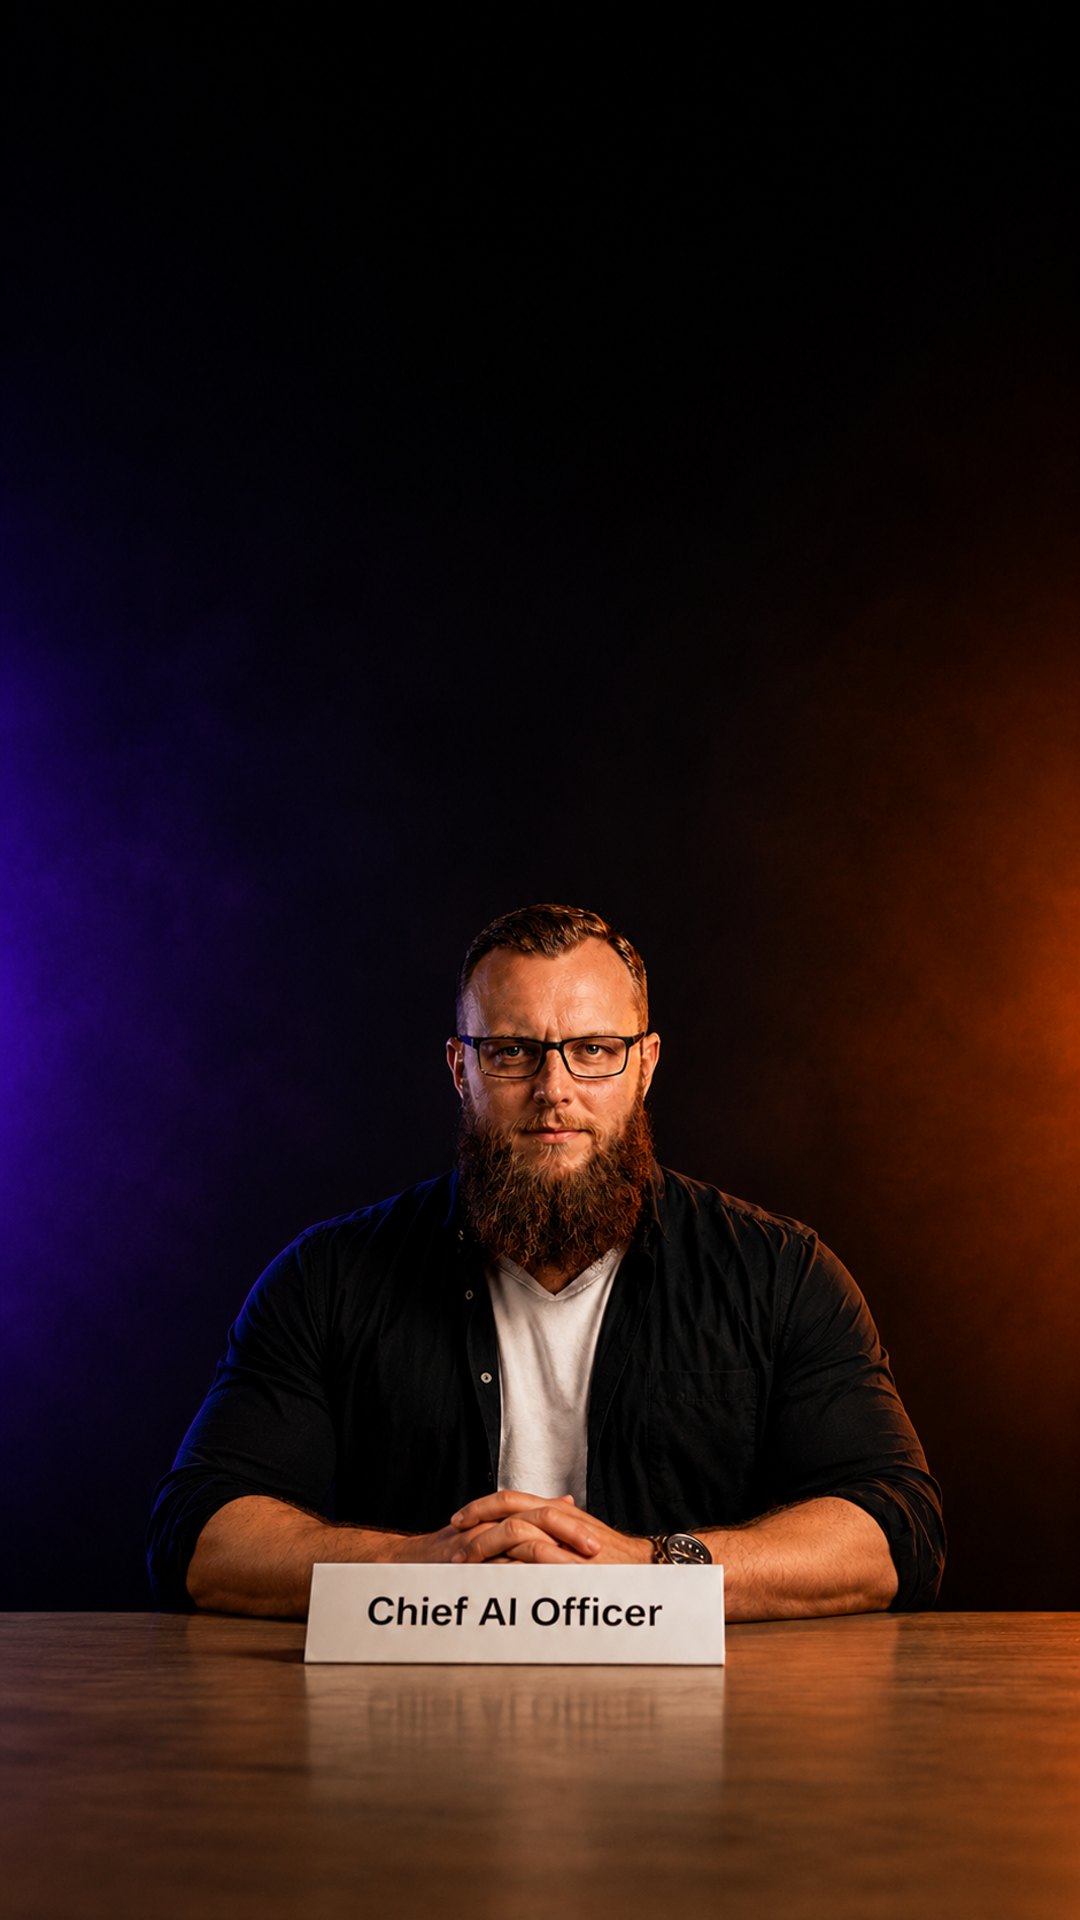
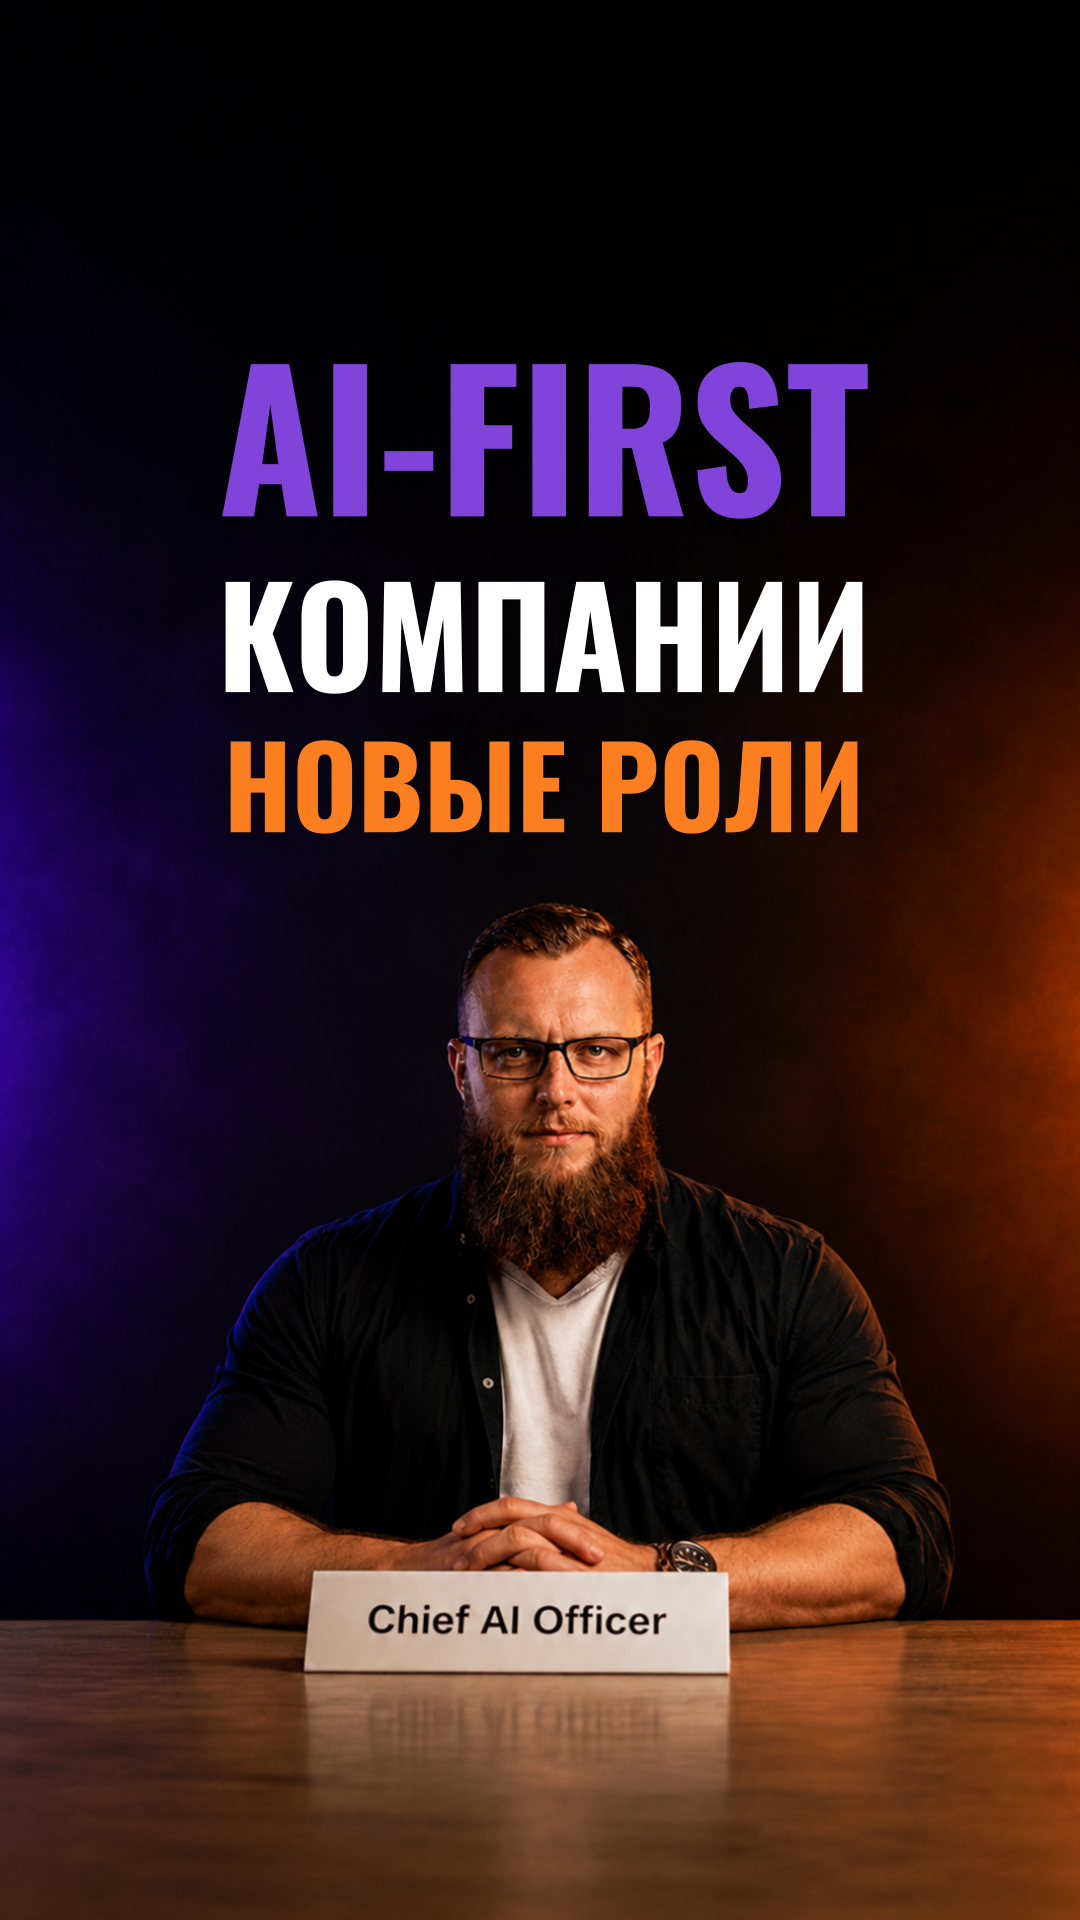
Девятый ролик: новая обложка и один рез вместо двух
Обложка — assets/lecture_1_9.png («AI-FIRST КОМПАНИИ / НОВЫЕ РОЛИ»)
вместо портрета. Место подписи «Часть N» выбрано по замеру яркости самой
обложки: верх до y500 пустой, тайтл начинается с 540, лицо с 900 —
подпись стоит центром на 330 и ни на что не наезжает.

Рез один, 41.6: владелец «обрезка одна по 41 секунде, следовательно
только 2 видео». Части 41.6 и 60.2 c, обложек частей теперь две.

Claude-Session: https://claude.ai/code/session_01JYJ9oxRL64dVKjbnqzxJTN

diff --git a/tests/test_roles_overlay.py b/tests/test_roles_overlay.py
@@ -27,9 +27,10 @@ _WORDS = 222               # столько слов в озвучке
 _SCENES = 16
 _BLOCKS = 4                # столько сцен со «словом + сиянием + значками»:
                            # четыре новые роли — опорные блоки ролика
-_РЕЗЫ = (41.6, 82.7)          # владелец просил «по 41 секунде», но ровно
-                              # 41 и 82 приходятся внутрь слов — сдвинуто
-                              # в ближайшие паузы
+_РЕЗЫ = (41.6,)               # «обрезка одна по 41 секунде, следовательно
+                              # только 2 видео». Ровно 41 попадает внутрь
+                              # слова «данных» (40.81…41.27), поэтому рез
+                              # сдвинут в паузу за ним
 _KEGL = 50                 # кегль субтитров на кадре 1080×1920
 _BAND = 940                # полоса под строку: #sub left:70px right:70px
 _ПОЛОСА_ЧИПОВ = 900        # шире ряд подсказок в кадр не помещается

diff --git a/automation/1/overlay-roles/README.md b/automation/1/overlay-roles/README.md
@@ -40,7 +40,6 @@
 | 63.1–66.3 | 42 | «ИИ берёт на себя» (63.25) → Анализ (64.11) · Решения (64.70) · Действия (65.25) |
 | 66.4–74.3 | 42 | «Человек — архитектор» (66.79) → Цели (70.63) · Правила (71.75) · Развитие (73.67) |
 | 74.9–82.5 | 43 | «В этой игре победят» (75.57) → **Пользуется ИИ** (77.17) **VS** **Операционное ядро** (80.17) |
-| **рез 82.7** | | конец второй части — тоже в паузе и на стыке |
 | 82.8–92.0 | 43 | «Будущее за компаниями» (83.73) → Уровень процессов (87.13) ↔ Поток данных (88.35) → «Внедрять интеллект в процессы» (90.19) |
 | 92.4–98.6 | 43 | «Этот курс — первый шаг» (93.09) → Мыслить как архитектор (94.95) ↔ Создавать решения (97.51) |
 | 98.7–101.8 | 43 | «Реально меняют» (98.89) → пара **Бизнес** (99.61) ↔ **Экономика** (101.17) |
@@ -58,10 +57,9 @@
 
 ## Что посчитано, а не прикинуто
 
-**Резы попадают в паузу.** Владелец просил «по 41 секунде», но ровно 41 и 82
-приходятся внутрь слов: 41 — на «данных» (реплика 40.81…41.27), 82 — на
-«бизнеса» (81.75…82.45). Сдвинуто в ближайшие паузы: **41.6** (пауза
-41.27…42.03) и **82.7** (пауза 82.45…82.99), обе — на стыке сцен.
+**Рез попадает в паузу.** Владелец просил «по 41 секунде», но ровно 41
+приходится внутрь слова «данных» (реплика 40.81…41.27). Рез сдвинут в
+ближайшую паузу — **41.6** (пауза 41.27…42.03), она же стык сцен.
 
 **Кегль подписи в широкой паре.** «Мыслить как архитектор» при кегле 28
 занимает 394px и подходит к левому краю на 49px при пороге 60 (замер в
@@ -77,18 +75,21 @@
 
 ```
 sh собрать.sh "ваше видео.MOV"
-sh нарезать.sh "ваше видео-готовый.mp4" 41.6 82.7   # три части
+sh нарезать.sh "ваше видео-готовый.mp4" 41.6   # две части
 ```
 
-Третья часть выходит короткой — 19 секунд: дорожка кончается на 101.8.
+Рез один — владелец: «обрезка одна по 41 секунде, следовательно только
+2 видео». Части выходят 41.6 и 60.2 секунды.
 
 **Второй раз собирать `…-готовый.mp4` нельзя**: субтитры в нём уже вжжены, и
 новый заход положил бы поверх них вторую строку. Скрипт видит такое имя и
 останавливается.
 
-**Обложки готовы:** `cover.png` — на весь ролик (портрет «Chief AI Officer»
-из `assets/`), `cover1.jpg`…`cover3.jpg` — по одной на часть, с подписью
-«Часть N» в свободном верхнем поле кадра. Скрипт нарезки видит
+**Обложки готовы:** `cover.png` — `assets/lecture_1_9.png` («AI-FIRST
+КОМПАНИИ / НОВЫЕ РОЛИ»), `cover1.jpg` и `cover2.jpg` — по одной на часть, с
+подписью «Часть N». Место подписи выбрано по замеру яркости самой обложки:
+верхняя полоса до y500 пустая, тайтл начинается с 540, лицо с 900 — подпись
+стоит центром на 330 и ни на что не наезжает. Скрипт нарезки видит
 пронумерованные обложки и вторую подпись поверх не рисует.
 
 ## Субтитры

diff --git a/SPEC-SITE.md b/SPEC-SITE.md
@@ -2587,10 +2587,10 @@ drawtext (conda) их бы не нарисовал.
   собраны рядом из двух кружков и съезжали на голову говорящего. Теперь
   `ряд()` переводит ряд из двух в пару САМ, а `tools/проверки/пары.py` ловит
   нарушение в разметке любого ролика.
-- **Резы сдвинуты в паузы.** Владелец просил «по 41 секунде», но ровно 41 и
-  82 приходятся внутрь слов («данных» 40.81…41.27, «бизнеса» 81.75…82.45).
-  Резы 41.6 и 82.7 — в паузах и на стыках сцен; третья часть выходит короткой
-  (19 c), о чём владелец предупреждён.
+- **Рез сдвинут в паузу.** Владелец: «обрезка одна по 41 секунде,
+  следовательно только 2 видео». Ровно 41 приходится внутрь слова «данных»
+  (реплика 40.81…41.27), поэтому рез — 41.6 (пауза 41.27…42.03) и он же стык
+  сцен. Части: 41.6 и 60.2 c.
 - **Кегли подписей в парах — по замеру:** пары из `пара()` берут 34 от
   `.scene .row.duo`, пары из `ряд(пара=True)` — 28 от ряда иконок. Длинным
   подписям кегль задан явно: `#s14` → 32 (34 давало поле 58 при пороге 60),
@@ -2605,15 +2605,17 @@ drawtext (conda) их бы не нарисовал.
   который не с кем слить (строка вышла бы длиннее четырёх слов), занимает
   недостающие миллисекунды у соседа, а последняя реплика подрезана по концу
   озвучки.
-- **Обложка** — портрет «Chief AI Officer» из `assets/`, обложки частей
-  `cover1.jpg`…`cover3.jpg` с подписью «Часть N» в свободном верхнем поле.
+- **Обложка** — `assets/lecture_1_9.png` («AI-FIRST КОМПАНИИ / НОВЫЕ РОЛИ»),
+  обложки частей `cover1.jpg` и `cover2.jpg` с подписью «Часть N». Место
+  подписи выбрано по замеру яркости самой обложки: верх до y500 пустой, тайтл
+  начинается с 540, лицо с 900 — подпись стоит центром на 330.
 
 **Тесты:** `tests/test_roles_overlay.py` (39 тестов). Ключевые:
 - `[FE]` test_elements_match_the_spoken_words — 49 элементов сверены с речью по словам.
 - `[FE]` test_two_icons_always_stand_wide / test_paired_scenes_stand_over_the_paintings — пары широкие, кегль берётся по сцене.
 - `[FE]` test_only_the_four_roles_are_big_words — крупным словом только четыре роли.
 - `[FE]` test_no_ring_left_from_the_previous_lecture — кольцо восьмого ролика не осталось.
-- `[FE]` test_cuts_fall_between_scenes — резы 41.6 и 82.7 на стыках.
+- `[FE]` test_cuts_fall_between_scenes — рез 41.6 на стыке сцен и в паузе.
 - `[FE]` test_recognition_mistakes_are_fixed — все правки распознавания, включая правку по куску разорванной фразы.
 - `[FE]` test_layers_are_here_and_long_enough — слои на месте и ровно 103.3 c.
 

diff --git a/automation/1/ГАЙДБУК.md b/automation/1/ГАЙДБУК.md
@@ -22,7 +22,7 @@
 | 6 | `overlay-index` | 22–30 | 13 | 174.1 c | 47 / 105 / 159 |
 | 7 | `overlay-strategy` | 31–33 | 18 | 153.8 c | 52 / 115 |
 | 8 | `overlay-agentops` | 34–40 | 25 | 171.9 c | 32 / 80 / 120 |
-| 9 | `overlay-roles` | 41–43 | 16 | 101.8 c | 41.6 / 82.7 |
+| 9 | `overlay-roles` | 41–43 | 16 | 101.8 c | 41.6 |
 
 Новый ролик собирается **из предыдущего**: берётся его `index.html`, меняются
 только блок CSS сцен и разметка `<div id="layer">`. Всё остальное — шапка,
